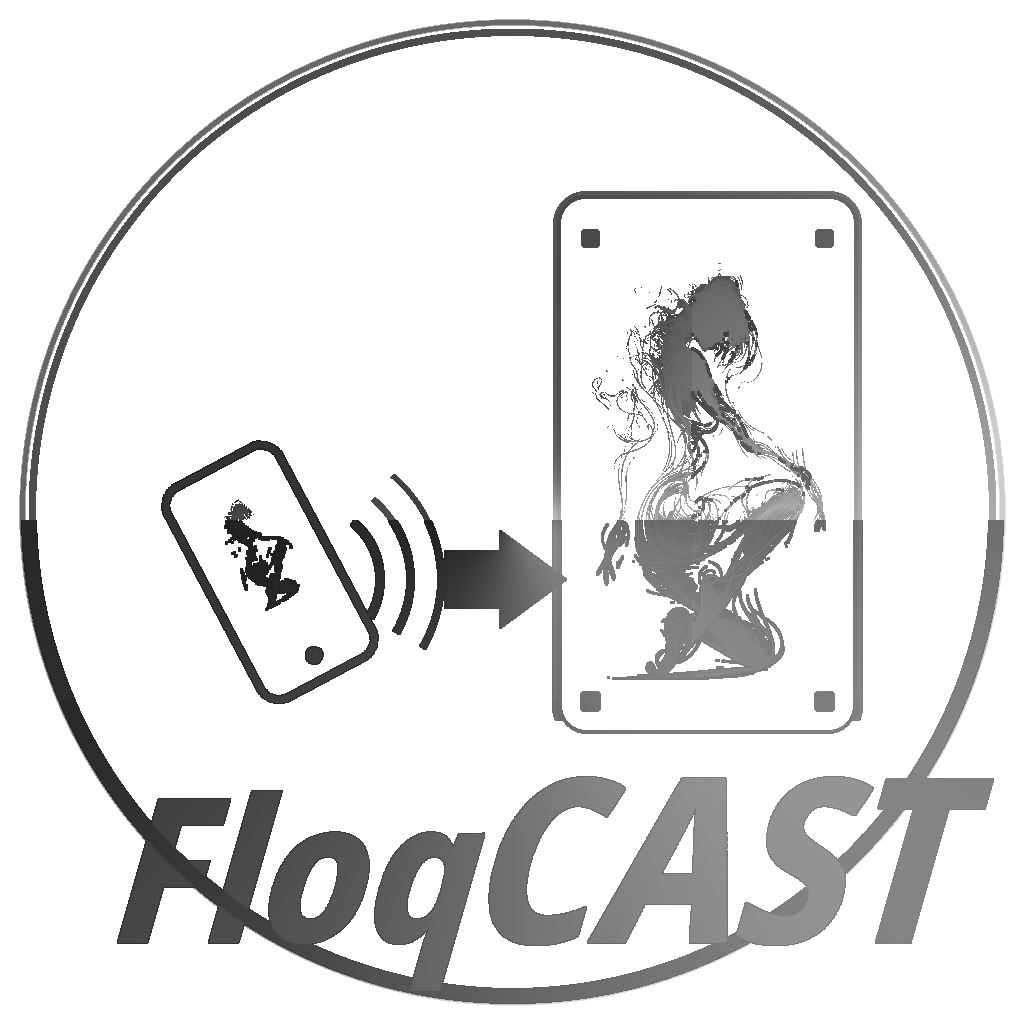
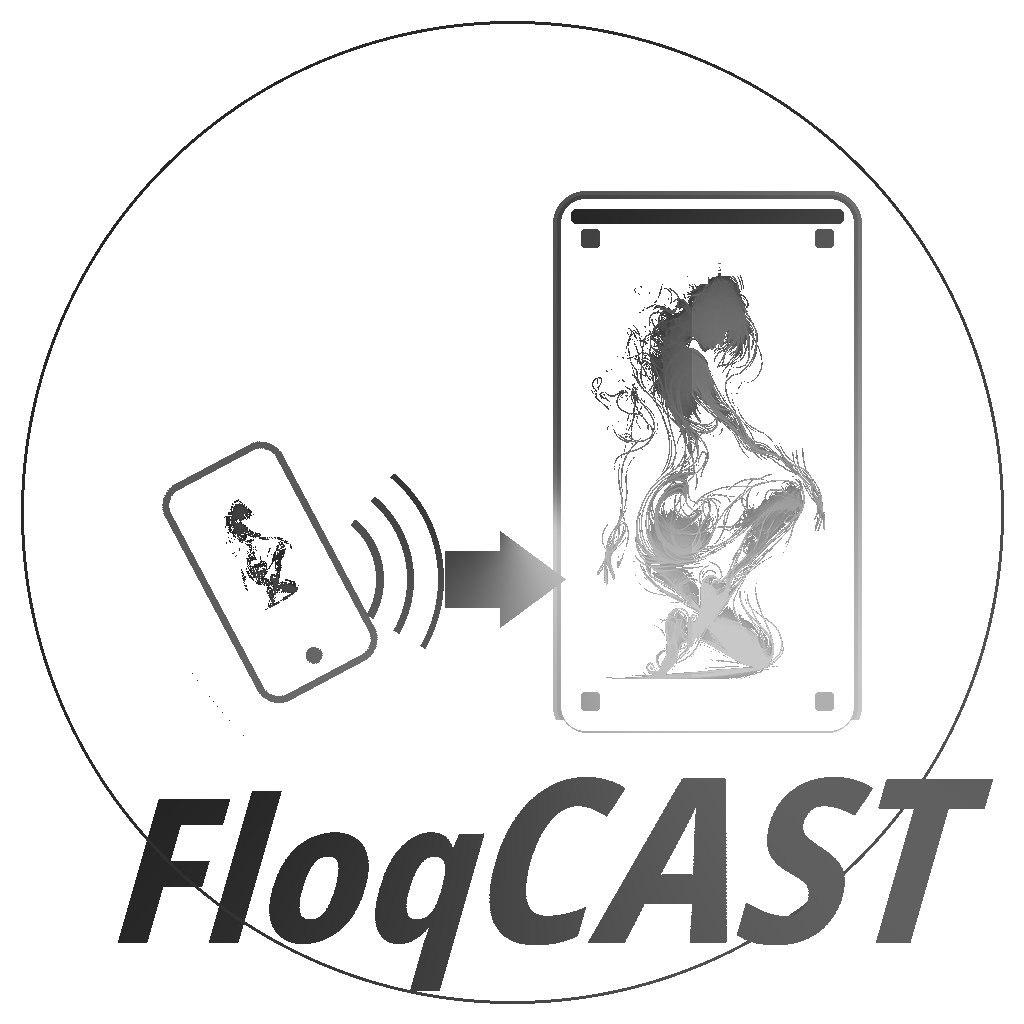
fix: FloqCAST White/Black — Fl/T tips + thin shiny black ring
Rebuild floqcast-whiteblack from under/ring/over layers so Fl and T
tips are not wiped by the white field. 3px shiny-black ring. ICON_V s3.2.09.

Changed region(s): [[0.0, 0.0, 1.0, 1.0], [0.1562, 0.3125, 0.8438, 0.7188], [0.1875, 0.4062, 0.2812, 0.4688]]

diff --git a/index.html b/index.html
@@ -804,7 +804,7 @@
 <script src="https://www.gstatic.com/firebasejs/10.12.5/firebase-storage-compat.js"></script>
 <script src="https://www.gstatic.com/firebasejs/10.12.5/firebase-functions-compat.js"></script>
 <script src="./firebase-config.js?v=s3.2.00"></script>
-<script src="./floqr-chrome-scheme.js?v=s3.2.08"></script>
+<script src="./floqr-chrome-scheme.js?v=s3.2.09"></script>
 <script src="./floqr-people-directory.js?v=s3.2.00"></script>
 <script src="./floqr-app-check.js?v=s3.2.00"></script>
 <script src="./floqr-nav.js?v=s3.2.00"></script>

diff --git a/patron-portal.html b/patron-portal.html
@@ -829,7 +829,7 @@
 <script src="https://www.gstatic.com/firebasejs/10.12.5/firebase-storage-compat.js"></script>
 <script src="https://www.gstatic.com/firebasejs/10.12.5/firebase-functions-compat.js"></script>
 <script src="./firebase-config.js?v=s3.2.00"></script>
-<script src="./floqr-chrome-scheme.js?v=s3.2.08"></script>
+<script src="./floqr-chrome-scheme.js?v=s3.2.09"></script>
 <script src="./floqr-people-directory.js?v=s3.2.00"></script>
 <script src="./floqr-app-check.js?v=s3.2.00"></script>
 <script src="./floqr-nav.js?v=s3.2.00"></script>

diff --git a/vip.html b/vip.html
@@ -131,7 +131,7 @@
 <script src="./feature-gates.js?v=s3.2.00"></script>
 <script src="./floqr-i18n.js?v=s3.2.06"></script>
 <script src="./floqr-feature-services.js?v=s3.2.00"></script>
-<script src="./floqr-chrome-scheme.js?v=s3.2.08"></script>
+<script src="./floqr-chrome-scheme.js?v=s3.2.09"></script>
 <script src="./floqr-nav.js?v=s3.2.00"></script>
 <script src="./floqai-help-repository.js?v=s3.2.06"></script>
 <script src="./helper-popouts.js?v=s3.2.00"></script>

diff --git a/vip-terms.html b/vip-terms.html
@@ -93,7 +93,7 @@
 <script src="./feature-gates.js?v=s3.2.00"></script>
 <script src="./floqr-i18n.js?v=s3.2.06"></script>
 <script src="./floqr-feature-services.js?v=s3.2.00"></script>
-<script src="./floqr-chrome-scheme.js?v=s3.2.08"></script>
+<script src="./floqr-chrome-scheme.js?v=s3.2.09"></script>
 <script src="./floqr-nav.js?v=s3.2.00"></script>
 <script src="./floqai-help-repository.js?v=s3.2.06"></script>
 <script src="./helper-popouts.js?v=s3.2.00"></script>

diff --git a/chrome-scheme-stage.html b/chrome-scheme-stage.html
@@ -170,7 +170,7 @@
     Reply which traditional proposals to lock, then go-ahead to wire Search.
   </p>
 
-  <script src="./floqr-chrome-scheme.js?v=s3.2.08"></script>
+  <script src="./floqr-chrome-scheme.js?v=s3.2.09"></script>
   <script>
     FLOQRChromeScheme.bindToggle(document);
     // Keep legacy data-scheme in sync for page chrome CSS

diff --git a/floqr-chrome-scheme.js b/floqr-chrome-scheme.js
@@ -33,7 +33,7 @@
   });
 
   /** Asset cache-bust for chrome icon packs (not navigation). */
-  const ICON_V = "s3.2.08";
+  const ICON_V = "s3.2.09";
   const NIGHTLIFE_ICONS = {
     floqCast: "./images/chrome/floqcast-nightlife.jpg?v=" + ICON_V,
     vipReserv: "./images/chrome/vip-nightlife.jpg?v=" + ICON_V,

diff --git a/scripts/build-chrome-icons.py b/scripts/build-chrome-icons.py
@@ -1513,8 +1513,19 @@ def shiny_chrome_tone(
     return hi.astype(np.float32)
 
 
-def to_white_black(src: Path, dst: Path, *, keep_tiffany_v: bool = False) -> None:
-    """Light theme: white field + shiny chrome-black fonts/borders/ring."""
+def to_white_black(
+    src: Path,
+    dst: Path,
+    *,
+    keep_tiffany_v: bool = False,
+    tip_preserve: bool = False,
+    ring_stroke: int = 5,
+) -> None:
+    """Light theme: white field + shiny chrome-black fonts/borders/ring.
+
+    tip_preserve: FloqCAST-style — never white-halo the ring over Fl/T tips;
+    stamp outside-ring type last so tips stay visible on white.
+    """
     im = Image.open(src).convert("RGBA")
     a = np.array(im)
     r, g, b, al = [a[:, :, i].astype(np.float32) for i in range(4)]
@@ -1529,7 +1540,7 @@ def to_white_black(src: Path, dst: Path, *, keep_tiffany_v: bool = False) -> Non
     sat = (np.maximum(np.maximum(r, g), b) - np.minimum(np.minimum(r, g), b)) > 40
     neon = sat & (al > 20) & ~tiffany
     purple_border = (r > 140) & (b > 180) & (g < 190) & (b > g) & (al > 20)
-    # Silver / grey type leftover from traditional chrome
+    # Type ink anywhere in lower band (incl. tips outside the ring)
     grey_type = (
         (al > 20)
         & (yy > 520)
@@ -1537,7 +1548,6 @@ def to_white_black(src: Path, dst: Path, *, keep_tiffany_v: bool = False) -> Non
         & (np.abs(g - b) < 28)
         & (lum > 60)
         & (lum < 230)
-        & (dist < (R + 20))
     )
 
     out = np.zeros_like(a)
@@ -1546,62 +1556,175 @@ def to_white_black(src: Path, dst: Path, *, keep_tiffany_v: bool = False) -> Non
 
     chrome = shiny_chrome_tone(lum, yy, xx)
 
-    # Graphic linework inside disc → chrome black (furniture / marks)
-    graphic = (al > 20) & ~near_black & ~white & ~tiffany & (dist < (R - 6))
-    for c in range(3):
-        out[:, :, c] = np.where(graphic, chrome, out[:, :, c])
-
-    # Draw a thin shiny chrome ring (do not copy wide nightlife bloom)
-    wb_stroke = 5  # px — smaller than nightlife RING_STROKE
-    wb_half = wb_stroke / 2.0
-    ring_mask = (np.abs(dist - R) <= wb_half) & (dist > 0)
-    # Soft AA rim (1px)
-    ring_aa = (np.abs(dist - R) <= (wb_half + 0.8)) & ~ring_mask
-    ring_chrome = shiny_chrome_tone(np.full_like(lum, 140.0), yy, xx)
-    ring_chrome = np.clip(ring_chrome * 1.25 + 18, 28, 205)
-    for c in range(3):
-        out[:, :, c] = np.where(ring_mask, ring_chrome, out[:, :, c])
-        out[:, :, c] = np.where(ring_aa, ring_chrome * 0.55 + 255 * 0.45, out[:, :, c])
-
-    # Fonts + borders + prior accents → shiny chrome black
+    # Font mask first (tips included) — drives wipe + stamp order
     font_mask = white | purple_border | magenta | grey_type | (neon & (yy > 520)) | tiffany
-    # Dilate slightly so AA / neon borders stay with the glyph
     font_mask = (
         np.array(
             Image.fromarray((font_mask.astype(np.uint8) * 255)).filter(
-                ImageFilter.MaxFilter(3)
+                ImageFilter.MaxFilter(5 if tip_preserve else 3)
             )
         )
         > 0
     )
     font_chrome = shiny_chrome_tone(np.maximum(lum, 120), yy, xx, for_type=True)
+
+    # Graphic linework inside disc → chrome black (furniture / marks)
+    graphic = (al > 20) & ~near_black & ~white & ~tiffany & (dist < (R - 6)) & ~font_mask
+    for c in range(3):
+        out[:, :, c] = np.where(graphic, chrome, out[:, :, c])
+
+    # Type under the ring (full glyph first)
     for c in range(3):
         out[:, :, c] = np.where(font_mask, font_chrome, out[:, :, c])
-
-    # Optional cool glint on former tiffany glyphs (off for VIP — all chrome black)
     if keep_tiffany_v:
         cool = np.clip(font_chrome * 0.90, 14, 160)
         out[:, :, 0] = np.where(tiffany, cool * 0.50, out[:, :, 0])
         out[:, :, 1] = np.where(tiffany, np.clip(cool * 0.70 + 22, 16, 140), out[:, :, 1])
         out[:, :, 2] = np.where(tiffany, np.clip(cool * 0.80 + 32, 18, 150), out[:, :, 2])
 
-    # Outside ring → pure white, but NEVER wipe type tips (Fl / T / re / etc.)
-    outside = dist > (R + wb_half + 1.2)
+    # Smaller shiny chrome-black ring — no white AA halo
+    wb_stroke = max(2, int(ring_stroke))
+    wb_half = wb_stroke / 2.0
+    ring_mask = (np.abs(dist - R) <= wb_half) & (dist > 0)
+    ring_chrome = shiny_chrome_tone(np.full_like(lum, 160.0), yy, xx)
+    ring_chrome = np.clip(ring_chrome * 1.30 + 22, 24, 190)
+    # Soft dark AA only (never blend toward white — that erased Fl/T)
+    ring_aa = (np.abs(dist - R) <= (wb_half + 0.7)) & ~ring_mask
+    for c in range(3):
+        out[:, :, c] = np.where(ring_mask, ring_chrome, out[:, :, c])
+        out[:, :, c] = np.where(
+            ring_aa & ~font_mask, np.clip(ring_chrome * 0.65, 20, 160), out[:, :, c]
+        )
+
+    # Outside ring → pure white, but NEVER wipe type tips
+    outside = dist > (R + wb_half + 0.5)
     wipe = outside & ~font_mask
     out[wipe] = (255, 255, 255, 255)
-    # Re-stamp type last so tips outside the ring stay chrome-black
-    for c in range(3):
-        out[:, :, c] = np.where(font_mask, font_chrome, out[:, :, c])
-    if keep_tiffany_v:
-        cool = np.clip(font_chrome * 0.90, 14, 160)
-        out[:, :, 0] = np.where(tiffany, cool * 0.50, out[:, :, 0])
-        out[:, :, 1] = np.where(tiffany, np.clip(cool * 0.70 + 22, 16, 140), out[:, :, 1])
-        out[:, :, 2] = np.where(tiffany, np.clip(cool * 0.80 + 32, 18, 150), out[:, :, 2])
+
+    # Tips outside / grazing the outer edge — stamp last over white + ring AA
+    tips = font_mask & (dist >= (R - wb_half * 0.25))
+    if tip_preserve:
+        # All tip/over type above the ring AA; solid ring still covers true under-ink
+        over_type = font_mask & ~ring_mask
+        for c in range(3):
+            out[:, :, c] = np.where(over_type, font_chrome, out[:, :, c])
+        # Re-apply solid ring so Fl under-chord stays tucked
+        for c in range(3):
+            out[:, :, c] = np.where(ring_mask, ring_chrome, out[:, :, c])
+        # Final tip pass: anything outside the solid stroke always wins
+        tip_out = font_mask & (dist > (R + wb_half))
+        for c in range(3):
+            out[:, :, c] = np.where(tip_out, font_chrome, out[:, :, c])
+        if keep_tiffany_v:
+            cool = np.clip(font_chrome * 0.90, 14, 160)
+            out[:, :, 0] = np.where(tiffany & tip_out, cool * 0.50, out[:, :, 0])
+            out[:, :, 1] = np.where(
+                tiffany & tip_out, np.clip(cool * 0.70 + 22, 16, 140), out[:, :, 1]
+            )
+            out[:, :, 2] = np.where(
+                tiffany & tip_out, np.clip(cool * 0.80 + 32, 18, 150), out[:, :, 2]
+            )
+    else:
+        for c in range(3):
+            out[:, :, c] = np.where(tips, font_chrome, out[:, :, c])
+        if keep_tiffany_v:
+            cool = np.clip(font_chrome * 0.90, 14, 160)
+            out[:, :, 0] = np.where(tiffany & tips, cool * 0.50, out[:, :, 0])
+            out[:, :, 1] = np.where(
+                tiffany & tips, np.clip(cool * 0.70 + 22, 16, 140), out[:, :, 1]
+            )
+            out[:, :, 2] = np.where(
+                tiffany & tips, np.clip(cool * 0.80 + 32, 18, 150), out[:, :, 2]
+            )
 
     Image.fromarray(out.astype(np.uint8), "RGBA").convert("RGB").save(
         dst, quality=96, subsampling=0
     )
-    print(f"  whiteBlack chrome → {dst.name}")
+    print(f"  whiteBlack chrome → {dst.name} tip_preserve={tip_preserve} ring={wb_stroke}px")
+
+
+def build_floqcast_whiteblack() -> Path:
+    """FloqCAST White/Black from layers — Fl/T tips never wiped by white outside ring.
+
+    Order: white bg → chrome graphic → under type (Fl) → thin shiny black ring → over type (oqCAST+T).
+    """
+    LAYERS.mkdir(parents=True, exist_ok=True)
+    ensure_ring()
+    g = Image.open(extract_floqcast_graphic())
+    under, over, body = floqcast_wm()
+    left, top = place_floqcast_q_kiss(body, graphic_bottom(g, 700) + 8, bias=4)
+    print(f"  FloqCAST WB place left={left} top={top} body={body.size}")
+
+    wb_stroke = 3  # small shiny-black ring
+    wb_half = wb_stroke / 2.0
+    yy, xx = np.indices((S, S))
+    dist = np.sqrt((xx - CX) ** 2 + (yy - CY) ** 2)
+    # Darker chrome-black type for white field contrast
+    font_chrome = shiny_chrome_tone(np.full((S, S), 160.0, np.float32), yy, xx, for_type=True)
+    font_chrome = np.clip(font_chrome * 0.72, 10, 110)
+
+    base = Image.new("RGBA", (S, S), (255, 255, 255, 255))
+
+    # Graphic → chrome linework on white
+    ga = np.array(g.convert("RGBA"))
+    gr, gg, gb, gal = (ga[:, :, i].astype(np.float32) for i in range(4))
+    glum = 0.299 * gr + 0.587 * gg + 0.114 * gb
+    chrome = shiny_chrome_tone(glum, yy, xx)
+    gout = np.zeros_like(ga)
+    line = (glum >= 30) & (gal > 8) & (dist < (R - 4))
+    gout[line, 0] = gout[line, 1] = gout[line, 2] = chrome[line]
+    gout[line, 3] = 255
+    base.alpha_composite(Image.fromarray(gout, "RGBA"))
+
+    def type_layer(im: Image.Image) -> Image.Image:
+        a = np.array(paste_type(im, left, top))
+        ink = a[:, :, 3] > 20
+        out = np.zeros_like(a)
+        for c in range(3):
+            out[:, :, c] = np.where(ink, font_chrome, 0)
+        out[:, :, 3] = np.where(ink, 255, 0)
+        return Image.fromarray(out, "RGBA")
+
+    # Under (Fl) → thin shiny-black ring → over (oqCAST + T)
+    base.alpha_composite(type_layer(under))
+    # Shiny black ring: dark body + silver specular (not light grey)
+    ring_chrome = shiny_chrome_tone(np.full((S, S), 200.0, np.float32), yy, xx)
+    ring_chrome = np.clip(12.0 + ring_chrome * 0.35, 14, 95)
+    ra = np.zeros((S, S, 4), np.uint8)
+    ring_mask = np.abs(dist - R) <= wb_half
+    for c in range(3):
+        ra[:, :, c] = np.where(ring_mask, ring_chrome, 0).astype(np.uint8)
+    ra[:, :, 3] = np.where(ring_mask, 255, 0).astype(np.uint8)
+    base.alpha_composite(Image.fromarray(ra, "RGBA"))
+    base.alpha_composite(type_layer(over))
+
+    out = np.array(base)
+    out[:, :, 3] = 255
+    # Outside white — but keep any type ink that extends past the ring (Fl / T tips)
+    type_ink = (np.array(type_layer(under))[:, :, 3] > 20) | (
+        np.array(type_layer(over))[:, :, 3] > 20
+    )
+    outside = dist > (R + wb_half + 0.5)
+    out[outside & ~type_ink, :3] = 255
+    # Final tip stamp over white field
+    tips = type_ink & (dist > (R + wb_half))
+    for c in range(3):
+        out[:, :, c] = np.where(tips, font_chrome, out[:, :, c])
+
+    dst = ROOT / "images/chrome/floqcast-whiteblack.jpg"
+    Image.fromarray(out, "RGBA").convert("RGB").save(dst, quality=96, subsampling=0)
+    preview = Image.fromarray(out, "RGBA").convert("RGB").resize((640, 640), Image.Resampling.LANCZOS)
+    preview.save("/opt/cursor/artifacts/floqcast-wb-full-fixed.png", quality=95)
+    Image.fromarray(out, "RGBA").convert("RGB").crop((0, 600, 360, 1024)).resize(
+        (360, 424), Image.Resampling.LANCZOS
+    ).save("/opt/cursor/artifacts/floqcast-wb-fl-fixed.png", quality=95)
+    Image.fromarray(out, "RGBA").convert("RGB").crop((660, 600, 1024, 1024)).resize(
+        (364, 424), Image.Resampling.LANCZOS
+    ).save("/opt/cursor/artifacts/floqcast-wb-t-fixed.png", quality=95)
+    print(
+        f"  FloqCAST WB tips outside={int(tips.sum())} ring={wb_stroke}px → {dst.name}"
+    )
+    return dst
 
 
 def recolor_vip_ring(src: Path, dst: Path, mode: str) -> None:
@@ -1639,21 +1762,27 @@ def export_theme_vip_packs() -> None:
     recolor_vip_ring(nl, out / "vip-blacktiffany.jpg", "tiffany")
     recolor_vip_ring(nl, out / "vip-blackdarkgreen.jpg", "forest")
     # Full whiteblack pack — fonts + borders use shiny chrome black
+    # FloqCAST WB from layers (preserves Fl/T tips) — not flat JPG convert
+    build_floqcast_whiteblack()
     pairs = [
-        # VIP: all fonts (incl. V) → shiny chrome black
-        ("vip-traditional.jpg", "vip-whiteblack.jpg", False),
-        ("floqcast-traditional.jpg", "floqcast-whiteblack.jpg", False),
-        ("shoutout-traditional-green.png", "shoutout-whiteblack.png", False),
-        ("floqai-traditional.jpg", "floqai-whiteblack.jpg", False),
-        ("bartr-traditional.jpg", "bartr-whiteblack.jpg", False),
-        ("rydr-traditional.jpg", "rydr-whiteblack.jpg", False),
+        ("vip-traditional.jpg", "vip-whiteblack.jpg", False, False, 5),
+        ("shoutout-traditional-green.png", "shoutout-whiteblack.png", False, False, 5),
+        ("floqai-traditional.jpg", "floqai-whiteblack.jpg", False, False, 5),
+        ("bartr-traditional.jpg", "bartr-whiteblack.jpg", False, False, 5),
+        ("rydr-traditional.jpg", "rydr-whiteblack.jpg", False, False, 5),
     ]
-    for src_name, dst_name, keep_t in pairs:
+    for src_name, dst_name, keep_t, tip_p, stroke in pairs:
         src = out / src_name
         if not src.exists():
             print(f"  SKIP missing {src_name}")
             continue
-        to_white_black(src, out / dst_name, keep_tiffany_v=keep_t)
+        to_white_black(
+            src,
+            out / dst_name,
+            keep_tiffany_v=keep_t,
+            tip_preserve=tip_p,
+            ring_stroke=stroke,
+        )
 
 
 def build_vip_only():
@@ -1860,6 +1989,11 @@ def main():
         action="store_true",
         help="Rebuild streetBOT (FloqCAST process) + floqAi pack slots",
     )
+    ap.add_argument(
+        "--floqcast-wb-only",
+        action="store_true",
+        help="Rebuild FloqCAST White/Black only (layer assemble, tip-safe)",
+    )
     args = ap.parse_args()
     if args.ring_only:
         ensure_ring()
@@ -1875,6 +2009,9 @@ def main():
         return
     if args.streetbot_only:
         build_streetbot_only()
+        return
+    if args.floqcast_wb_only:
+        build_floqcast_whiteblack()
         return
     build_all()
 
